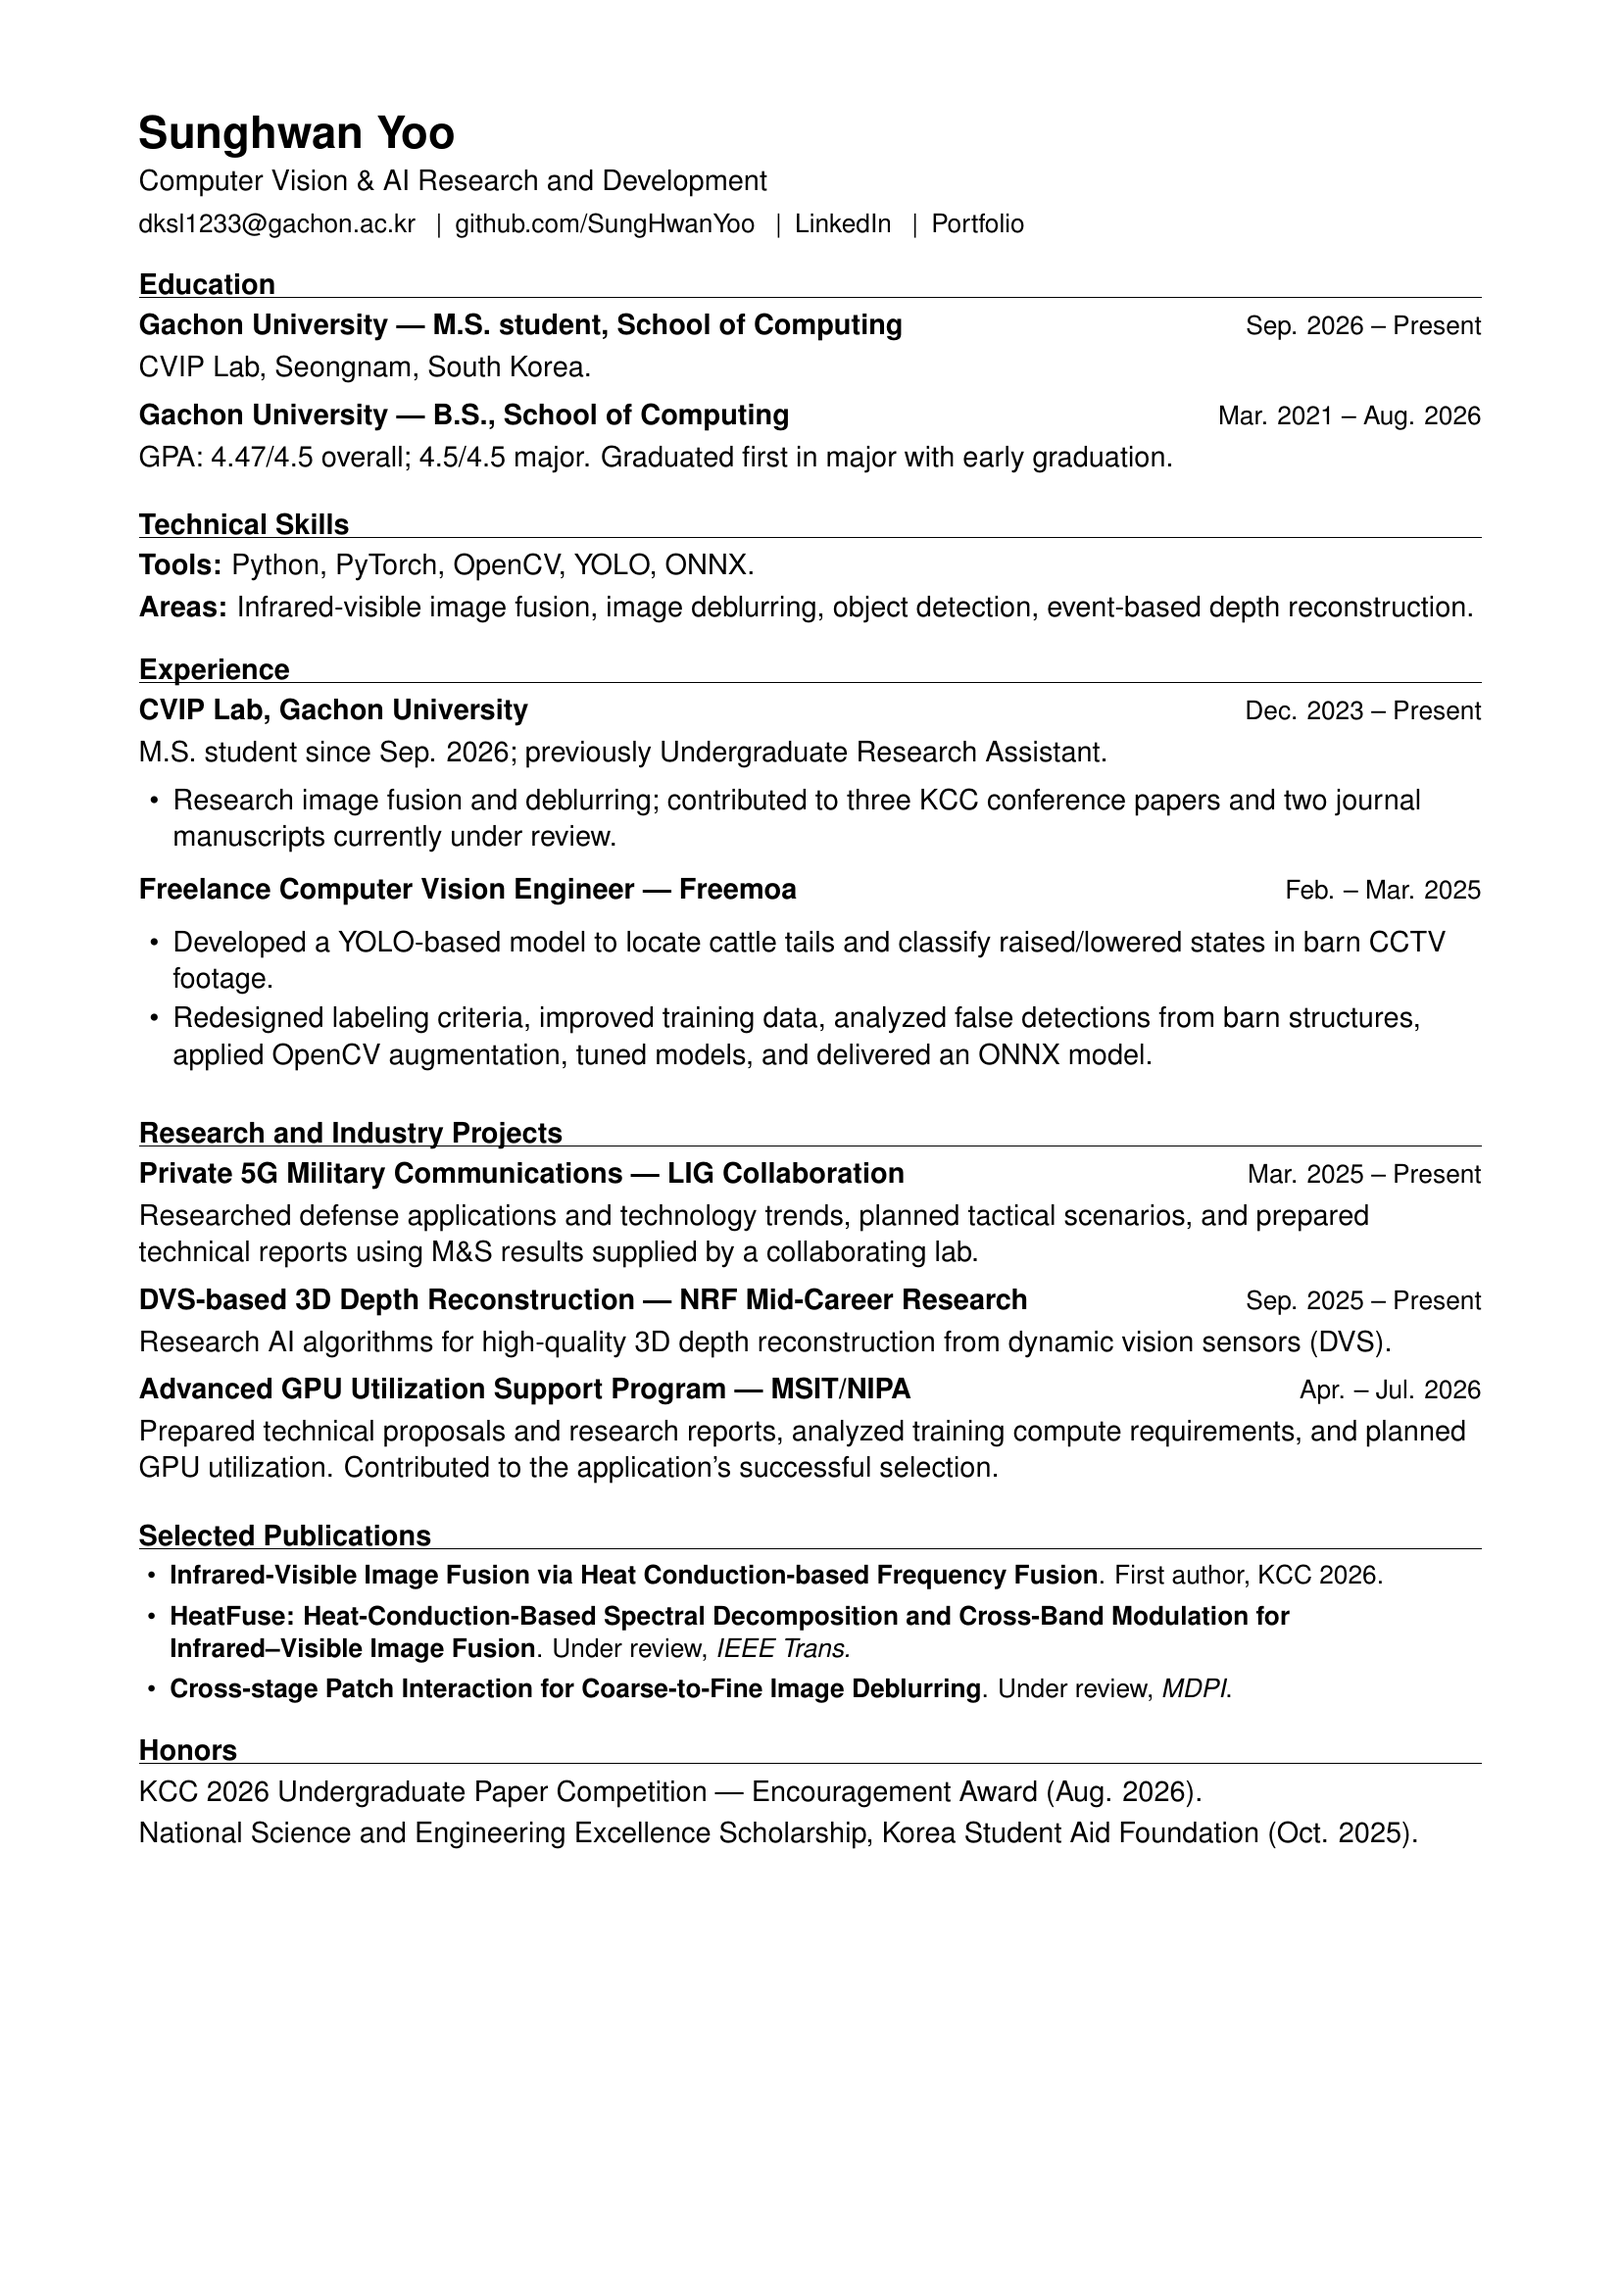
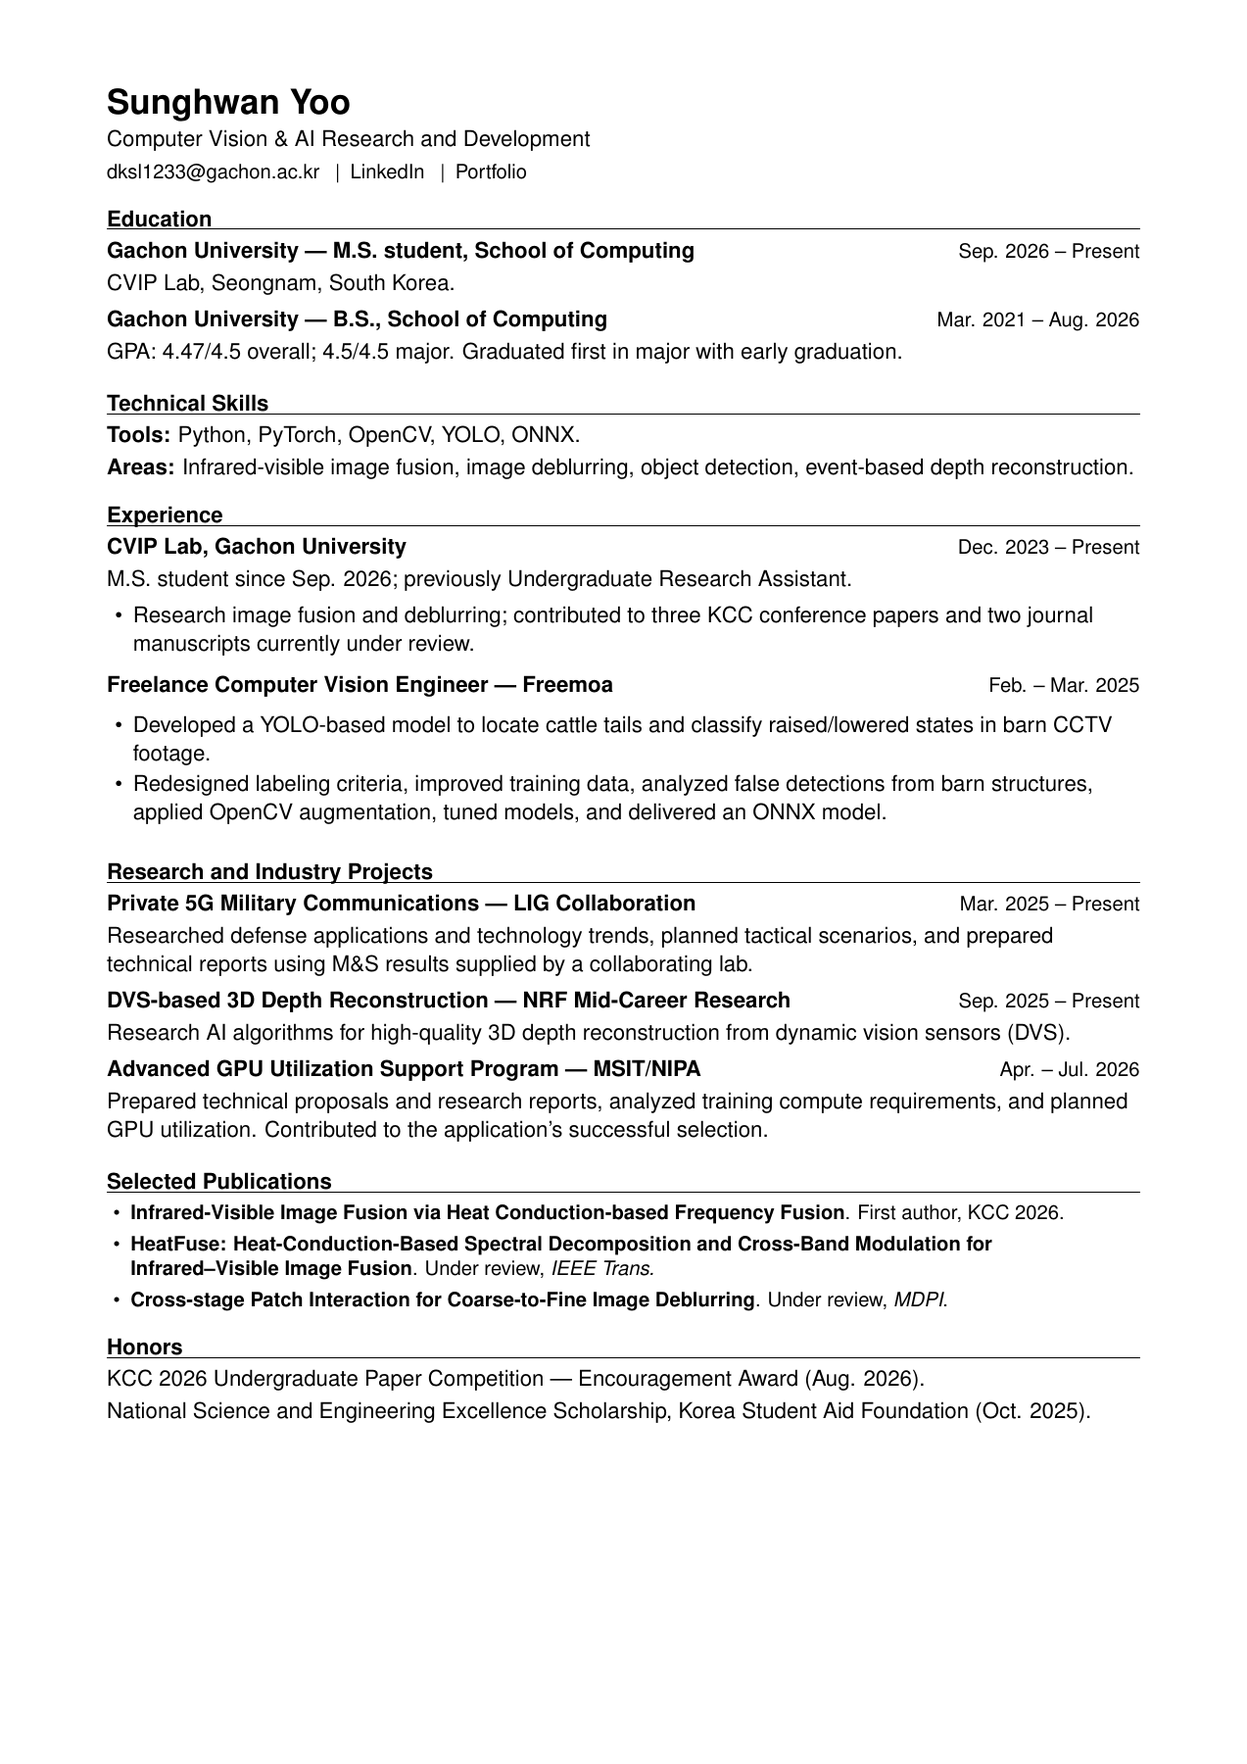
Add FAM-LUT preparation entry and Korean authors; remove personal GitHub links

diff --git a/_layouts/single.html b/_layouts/single.html
@@ -20,7 +20,7 @@ layout: default
   <article class="page" itemscope itemtype="http://schema.org/CreativeWork">
     {% if page.title %}<meta itemprop="headline" content="{{ page.title | markdownify | strip_html | strip_newlines | escape_once }}">{% endif %}
     {% if page.excerpt %}<meta itemprop="description" content="{{ page.excerpt | markdownify | strip_html | strip_newlines | escape_once }}">{% endif %}
-    {% if page.date and page.status != 'submitted' %}<meta itemprop="datePublished" content="{{ page.date | date: "%B %d, %Y" }}">{% endif %}
+    {% if page.date and page.status != 'submitted' and page.status != 'in-preparation' %}<meta itemprop="datePublished" content="{{ page.date | date: "%B %d, %Y" }}">{% endif %}
     {% if page.modified %}<meta itemprop="dateModified" content="{{ page.modified | date: "%B %d, %Y" }}">{% endif %}
 
     <div class="page__inner-wrap">
@@ -35,7 +35,9 @@ layout: default
           <p class="page__date"><strong><i class="fa fa-fw fa-calendar" aria-hidden="true"></i> {{ site.data.ui-text[site.locale].date_label | default: "Published:" }}</strong> <time datetime="{{ page.modified | date: "%Y-%m-%d" }}">{{ page.modified | date: "%B %d, %Y" }}</time></p>
         {% endif %}
         
-        {% if page.status == 'submitted' %}
+        {% if page.status == 'in-preparation' %}
+          <p class="publication__venue"><span class="status-label">In preparation</span></p>
+        {% elsif page.status == 'submitted' %}
           <p class="publication__venue"><span class="status-label">{% if page.review_status == 'under-review' %}Under review{% else %}Under submission{% endif %}</span>{% unless page.review_status == 'under-review' %} Submitted to{% endunless %} <i>{{ page.venue_display | default: page.venue | escape }}</i></p>
         {% elsif page.collection == 'teaching' %}
           <p> {{ page.type }}, <i>{{ page.venue }}</i>, {{ page.date | default: "1900-01-01" | date: "%Y" }} </p>

diff --git a/_includes/archive-single.html b/_includes/archive-single.html
@@ -44,7 +44,9 @@
       <p class="page__meta"><i class="fa fa-clock" aria-hidden="true"></i> {% include read-time.html %}</p>
     {% endif %}
 
-        {% if post.status == 'submitted' %}
+        {% if post.status == 'in-preparation' %}
+          <p class="publication__venue"><span class="status-label">In preparation</span></p>
+        {% elsif post.status == 'submitted' %}
           <p class="publication__venue"><span class="status-label">{% if post.review_status == 'under-review' %}Under review{% else %}Under submission{% endif %}</span>{% unless post.review_status == 'under-review' %} Submitted to{% endunless %} <i>{{ post.venue_display | default: post.venue | escape }}</i></p>
         {% elsif post.collection == 'teaching' %}
           <p> {{ post.type }}, <i>{{ post.venue }}</i>, {{ post.date | default: "1900-01-01" | date: "%Y" }} </p>

diff --git a/_includes/seo.html b/_includes/seo.html
@@ -40,7 +40,7 @@
   {% assign seo_author_twitter = seo_author_twitter | replace: "@", "" %}
 {% endif %}
 
-{% if page.date and page.status != 'submitted' %}
+{% if page.date and page.status != 'submitted' and page.status != 'in-preparation' %}
   <meta property="article:published_time" content="{{ page.date | date_to_xmlschema }}">
 {% endif %}
 

diff --git a/tests/publication_status_test.rb b/tests/publication_status_test.rb
@@ -46,6 +46,16 @@ class PublicationStatusTest < Minitest::Test
       ---
       Review in progress.
     DOCUMENT
+    File.write(File.join(@temporary, '_publications/in-preparation.md'), <<~DOCUMENT)
+      ---
+      layout: single
+      title: Preparation manuscript fixture
+      status: in-preparation
+      venue: Future Journal
+      date: 2026-09-01
+      ---
+      Manuscript in preparation.
+    DOCUMENT
     File.write(File.join(@temporary, 'index.html'), <<~DOCUMENT)
       ---
       layout: archive
@@ -96,6 +106,19 @@ class PublicationStatusTest < Minitest::Test
     refute_includes html, 'Published in'
     refute_includes html, 'itemprop="datePublished"'
     refute_includes html, 'property="article:published_time"'
+  end
+
+  def test_preparation_never_claims_submission_or_publication
+    archive = File.read(File.join(@temporary, '_site/index.html'))
+    detail = File.read(File.join(@temporary, '_site/publications/in-preparation.html'))
+    assert_includes archive, '<span class="status-label">In preparation</span>'
+    refute_includes archive, 'Published in <i>Future Journal</i>'
+    assert_includes detail, '<span class="status-label">In preparation</span>'
+    refute_includes detail, 'Published in'
+    refute_includes detail, 'Submitted to'
+    refute_includes detail, 'Under review'
+    refute_includes detail, 'itemprop="datePublished"'
+    refute_includes detail, 'property="article:published_time"'
   end
 
   def test_english_title_sits_below_the_paper_title

diff --git a/CONTENT_SOURCES.md b/CONTENT_SOURCES.md
@@ -17,6 +17,8 @@ The freelance project's reported 87% accuracy is omitted pending clarification o
 
 The homepage's IVIF visualization uses the owner's saved infrared, visible, and fused images for MSRS sample `01016N`. The input images are from [MSRS](https://github.com/LintaoTang/MSRS). The animation presents a precomputed result; its timing and generic network symbol do not represent inference speed or a model architecture. At the owner's request, the homepage does not explain or name the unpublished fusion method, and no manuscript PDF is included.
 
+On 2026-10-03, the owner requested a FAM-LUT entry under "Manuscripts in preparation" and Korean author lists: FAM-LUT — 유성환, 조항민, 정용주; HeatFuse — 유성환, 정용주; Cross-stage deblurring — 유성환, 부석경, 정용주. The FAM-LUT title was selected from the saved manuscript: "FAM-LUT: Factorized Additive Mapping via Look-Up Tables for Infrared–Visible Image Fusion". The owner also requested removal of personal GitHub links. The profile setting and project repository link were removed; the site CV PDF and matching preview were rebuilt from the saved one-page CV source with its GitHub contact removed. The linked Overleaf project remains the earlier source version.
+
 The homepage's deblurring animation uses the owner's previously generated comparison figure, supplied on October 1, 2026 as `Deblurring_figure의 사본.png` from Downloads. The 718 × 206 figure contains three panels. At the owner's request, the panels map from left to right to blurred input, Stage 1, and the final Stage 2 output. Pixel crop boxes are `(6, 6, 199, 199)`, `(276, 6, 469, 199)`, and `(519, 6, 712, 199)`, producing three 193 × 193 images after removing black frames and white gutters. The figure's original scene framing is preserved. The supplied figure does not label its sample or checkpoint, so no earlier inference's checkpoint or source paths are attributed to these panels. No new inference was run. All three panels are enlarged by the same amount and shown in one animated view with three stage labels. The 16-second loop's timing does not represent inference speed. No artificial blur, sharpening, generative edits, or separately generated output replacements are applied.
 
 ## Editing

diff --git a/_portfolio/image-restoration.md b/_portfolio/image-restoration.md
@@ -24,6 +24,4 @@ Built a controlled deblurring workflow covering data preparation, model training
 
 The public repository includes dataset loading, model, loss, metric, training, and test code. The documented environment uses Python and PyTorch.
 
-[View the repository on GitHub](https://github.com/SungHwanYoo/UNet_Deblurring)
-
 [← All projects]({{ "/projects/" | relative_url }})

diff --git a/_publications/fam-lut.md b/_publications/fam-lut.md
@@ -1,0 +1,12 @@
+---
+title: "FAM-LUT: Factorized Additive Mapping via Look-Up Tables for Infrared–Visible Image Fusion"
+collection: "publications"
+category: "in-preparation"
+status: "in-preparation"
+permalink: "/publications/fam-lut/"
+share: false
+comments: false
+excerpt: "유성환, 조항민, 정용주"
+---
+
+**Authors:** 유성환, 조항민, 정용주

diff --git a/_publications/cross-stage-deblurring.md b/_publications/cross-stage-deblurring.md
@@ -8,4 +8,7 @@ venue: "MDPI"
 permalink: "/publications/cross-stage-deblurring/"
 share: false
 comments: false
+excerpt: "유성환, 부석경, 정용주"
 ---
+
+**Authors:** 유성환, 부석경, 정용주

diff --git a/_publications/heatfuse.md b/_publications/heatfuse.md
@@ -8,4 +8,7 @@ venue: "IEEE Trans."
 permalink: "/publications/heatfuse/"
 share: false
 comments: false
+excerpt: "유성환, 정용주"
 ---
+
+**Authors:** 유성환, 정용주
